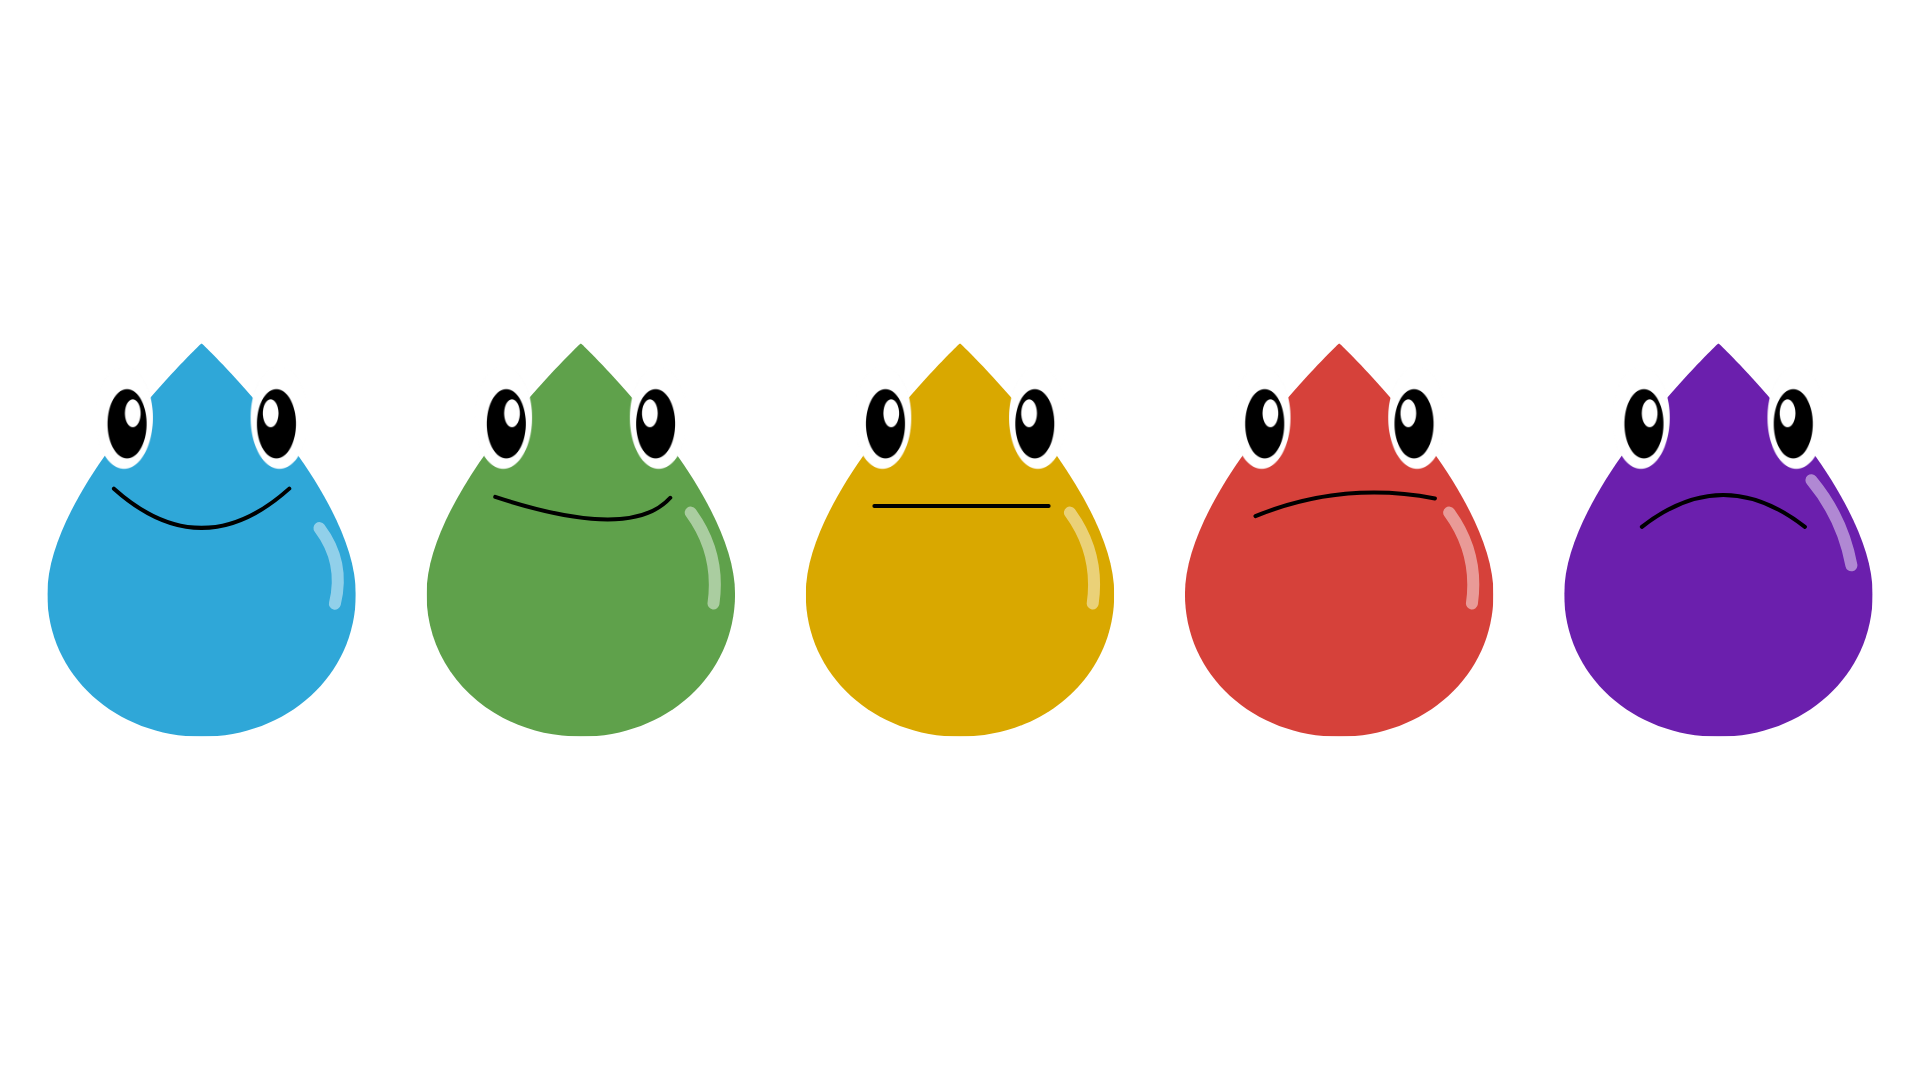
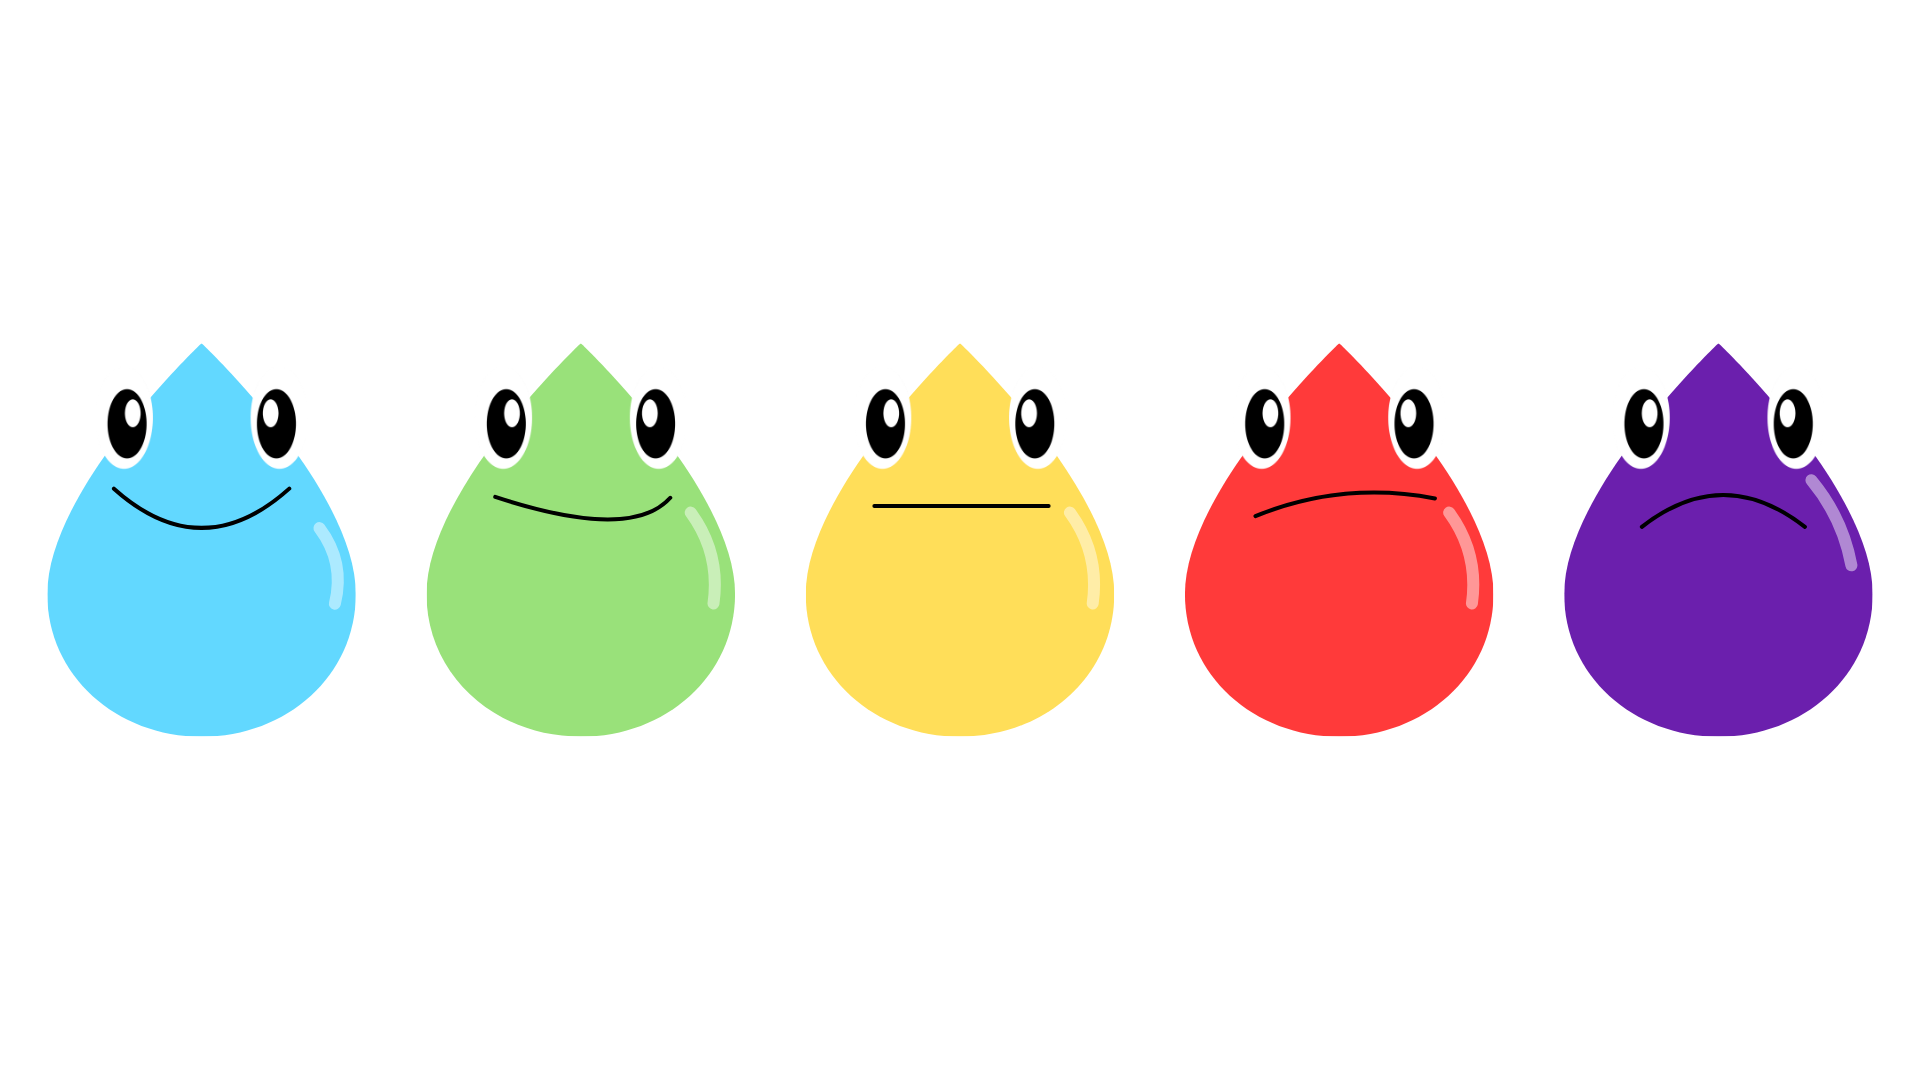
update

Changed region(s): [[0.2188, 0.3056, 0.7812, 0.7028], [0.0, 0.3056, 0.1875, 0.7028]]

diff --git a/index.html b/index.html
@@ -200,22 +200,22 @@ img { max-width: 100%; display: block; }
 
           <!-- floor pins: position (left/top) is % of image size, adjust later once real coordinates are confirmed -->
           <button type="button" class="floor-pin" style="left: 23%; top: 12%;" aria-label="Floor 8 water quality">
-            <span class="floor-pin__body" style="background: #2fa7d8;"><span class="floor-pin__label">17</span></span>
+            <span class="floor-pin__body" style="background: #62d8ff;"><span class="floor-pin__label">17</span></span>
           </button> 
           <button type="button" class="floor-pin" style="left: 23%; top: 23%;" aria-label="Floor 7 water quality">
-            <span class="floor-pin__body" style="background: #d9a800;"><span class="floor-pin__label">53</span></span>
+            <span class="floor-pin__body" style="background: #ffde59;"><span class="floor-pin__label">53</span></span>
           </button>
           <button type="button" class="floor-pin" style="left: 21%; top: 45.0%;" aria-label="Floor 5 water quality">
-            <span class="floor-pin__body" style="background: #5fa14b;"><span class="floor-pin__label">42</span></span>
+            <span class="floor-pin__body" style="background: #99e17a;"><span class="floor-pin__label">42</span></span>
           </button>
           <button type="button" class="floor-pin" style="left: 21%; top: 58.8%;" aria-label="Floor 4 water quality">
-            <span class="floor-pin__body" style="background: #2fa7d8;"><span class="floor-pin__label">24</span></span>
+            <span class="floor-pin__body" style="background: #62d8ff;"><span class="floor-pin__label">24</span></span>
           </button>
           <button type="button" class="floor-pin" style="left: 21%; top: 70.3%;" aria-label="Floor 3 water quality">
-            <span class="floor-pin__body" style="background: #2fa7d8;"><span class="floor-pin__label">20</span></span>
+            <span class="floor-pin__body" style="background: #62d8ff;"><span class="floor-pin__label">20</span></span>
           </button>
           <button type="button" class="floor-pin" style="left: 21%; top: 83%;" aria-label="Floor 2 water quality">
-            <span class="floor-pin__body" style="background: #5fa14b;"><span class="floor-pin__label">38</span></span>
+            <span class="floor-pin__body" style="background: #99e17a;"><span class="floor-pin__label">38</span></span>
           </button>
         </div>
 
